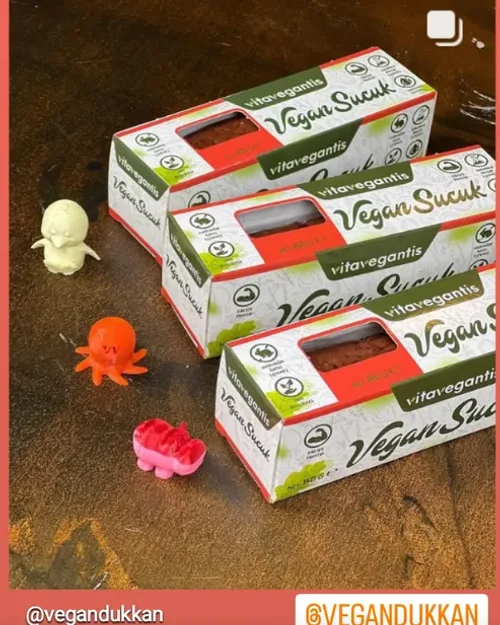
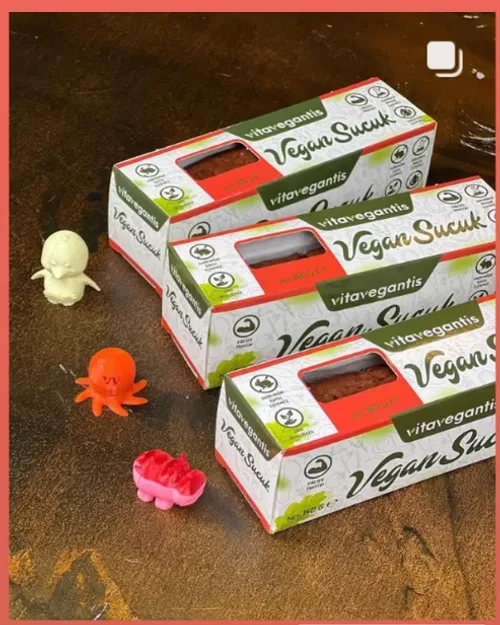
Sizden Gelenler: gorsellere gomulu Instagram kullanici adlarini kaldir
Ekran goruntulerinin bir kisminda story basligindaki profil adi ve alt
kisimdaki "yanit ver" cubugu / etiket satiri goruntunun icine gomuluydu.
Kart altindaki metni kaldirmak bunlari cozmuyordu.

Kaldirilan kullanici adlari (10 ust bant)
fundafan, gizem.kalak, monaborra, vegan.pazaryeri, vegan.bitess,
dyt.bilgeseverr, venividiveggii, miawcan, justpoe__, lonelyveganistanbul

Ayrica 6 karede alt bant kirpildi: "vitavegantis'e yanit ver..." cubugu
ve @vegandukkan, @veganolurken, @veganistasyon.sisli, @soyakiymasi
etiketleri.

sosis.webp ozel durumdu: "@veganistasyon" etiketi goruntunun tam
ortasindaydi, bant kirpmakla cikmiyordu. Kase yakin cekime alindi.

Tolga'nin isaretledigi bulanik makarna karesi (doner4) listeden
cikarildi. 28 -> 27 kart.

Yontem
- 16 dosyaya dosya bazli [ustten, alttan] kirpma orani tanimlandi,
  sonra 500x625 (4:5) WebP olarak yeniden uretildi.
- Kirpma sonrasi 27 karenin hepsi tek tek buyutulerek kontrol edildi.
  Geriye kalan tek etiket @vitavegantis - markanin kendi hesabi.

Akis suresi kart sayisina gore guncellendi: 27 x 278px = 7506px,
164sn ile hiz yine ~46px/sn (onceki tempoyla ayni).

Dogrulama: uretilen HTML'de 54 kart, hicbirinin icinde metin yok;
TR ve EN'de 27 benzersiz gorsel; doner4 hicbir sayfada gecmiyor.

diff --git a/src/app/globals.css b/src/app/globals.css
@@ -170,15 +170,15 @@ body {
 }
 
 /* --- Sizden Gelenler: yatay akan yorum şeritleri --------------------- */
-/* Süre kart sayısına göre seçildi: 28 kart x 278px = ~7784px, %50'lik
-   kaydırma 170 saniyede tamamlanıyor — yani ~46px/sn. Kart sayısı
+/* Süre kart sayısına göre seçildi: 27 kart x 278px = ~7506px, %50'lik
+   kaydırma 164 saniyede tamamlanıyor — yani ~46px/sn. Kart sayısı
    değişirse aynı hızı korumak için süreyi de orantılı güncelleyin. */
 .testimonial-marquee {
   display: flex;
   gap: 28px;
   width: max-content;
   padding: 26px 0;
-  animation: testimonial-scroll-right 170s linear infinite;
+  animation: testimonial-scroll-right 164s linear infinite;
 }
 
 /* Fareyle üzerine gelince dursun ki kart okunabilsin. */
